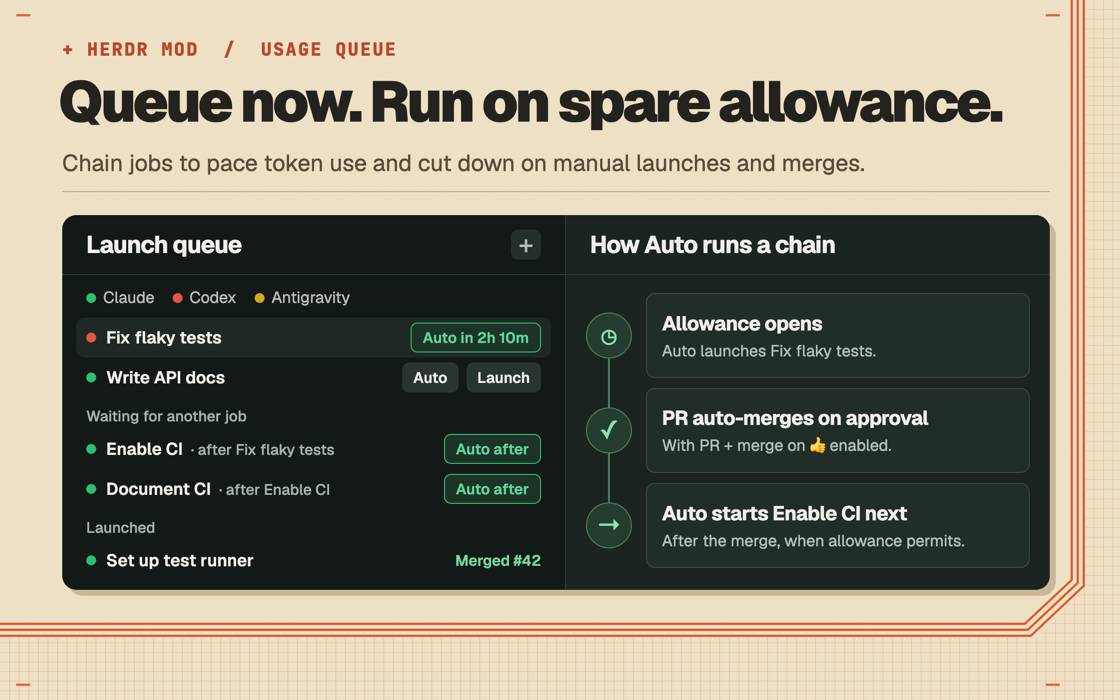
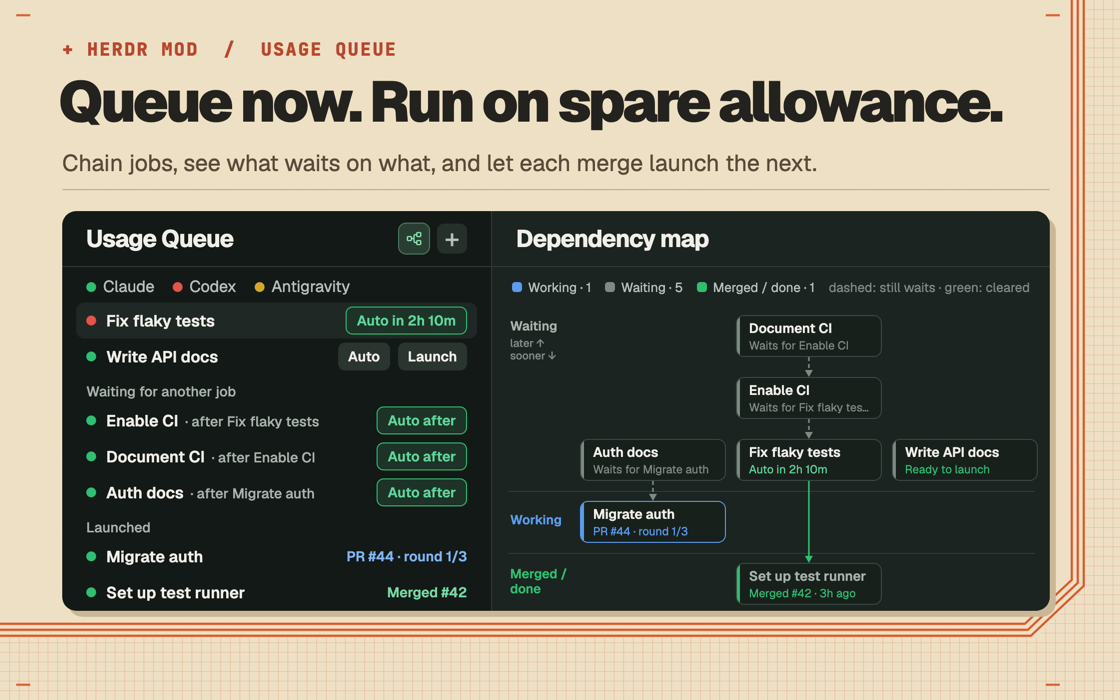
Show the dependency map in the gallery preview
The preview's right panel now draws the dependency map, as the mod's map dialog
does: waiting jobs stacked above the working and merged jobs they wait for, with
dashed arrows for waits still in force and a solid green one that has cleared.
The queue gains a working job with an open PR and a job waiting on it, and the
header shows the map icon beside +. Alt text in README and RECIPE updated.

diff --git a/herdr-app/preview/preview.html b/herdr-app/preview/preview.html
@@ -21,45 +21,58 @@
   h1 { position: absolute; left: 58px; top: 73px; font: 900 57px/1 Geist, sans-serif; letter-spacing: -0.052em;
     color: #24221e; white-space: nowrap; }
   .intro { position: absolute; left: 62px; top: 148px; font-size: 23px; color: #584b39; }
-  .rule { position: absolute; left: 62px; top: 191px; width: 988px; height: 1px; background: #b9aa8d; }
+  .rule { position: absolute; left: 62px; top: 189px; width: 988px; height: 1px; background: #b9aa8d; }
 
-  .card { position: absolute; left: 62px; top: 215px; width: 988px; height: 375px; background: #131916;
-    border-radius: 14px; box-shadow: 6px 6px 0 #c9b796; display: grid; grid-template-columns: 504px 1fr;
+  .card { position: absolute; left: 62px; top: 211px; width: 988px; height: 400px; background: #131916;
+    border-radius: 14px; box-shadow: 6px 6px 0 #c9b796; display: grid; grid-template-columns: 430px 1fr;
     overflow: hidden; }
   .queue { border-right: 1px solid #313b35; }
   .flow { background: #1b2420; }
-  .head { height: 60px; padding: 0 24px; display: flex; align-items: center; justify-content: space-between;
+  .head { height: 56px; padding: 0 24px; display: flex; align-items: center; justify-content: space-between;
     border-bottom: 1px solid #313b35; }
   .title { font-weight: 700; font-size: 24px; letter-spacing: -0.03em; }
   .plus { color: #b9c0bb; font-size: 26px; line-height: 30px; width: 30px; text-align: center;
     border-radius: 7px; background: #26302b; }
-  .lights { display: flex; gap: 18px; padding: 12px 24px 10px; color: #b9c0bb; font-size: 16px; }
+  .lights { display: flex; gap: 18px; padding: 9px 24px 6px; color: #b9c0bb; font-size: 16px; }
   .dot { display: inline-block; width: 10px; height: 10px; border-radius: 10px; margin-right: 7px; }
   .g { background: #2fbf71; } .y { background: #d4a72c; } .r { background: #e5534b; }
   .rows { padding: 0 14px; list-style: none; }
-  .group { padding: 9px 24px 3px; color: #a8b3ac; font-size: 15px; font-weight: 500; }
-  .row { display: flex; align-items: center; gap: 8px; height: 40px; padding: 0 10px; border-radius: 8px;
-    font-size: 17px; font-weight: 600; }
+  .group { padding: 8px 24px 2px; color: #a8b3ac; font-size: 14px; font-weight: 500; }
+  .row { display: flex; align-items: center; gap: 8px; height: 36px; padding: 0 10px; border-radius: 8px;
+    font-size: 16px; font-weight: 600; }
   .row.hl { background: #1f2824; }
   .row .dot { flex: none; margin-right: 2px; }
   .row .name { flex: 1; white-space: nowrap; }
-  .row .after { color: #a8b3ac; font-size: 15px; font-weight: 500; margin-left: 4px; }
-  .btn { flex: none; white-space: nowrap; height: 30px; padding: 0 11px; display: flex; align-items: center;
+  .row .after { color: #a8b3ac; font-size: 14px; font-weight: 500; margin-left: 3px; }
+  .btn { flex: none; white-space: nowrap; height: 28px; padding: 0 10px; display: flex; align-items: center;
     border-radius: 7px; background: #2a3530;
-    font-size: 15px; font-weight: 600; color: #f1efe9; }
+    font-size: 14px; font-weight: 600; color: #f1efe9; }
   .btn.auto { background: #1d3328; color: #5fd69a; border: 1px solid #2fbf71; }
-  .merged { color: #76d8a4; font-size: 15px; font-weight: 600; }
+  .merged { color: #76d8a4; font-size: 14px; font-weight: 600; }
+  .pr { color: #7fb4f5; font-size: 14px; font-weight: 600; }
+  .tools { display: flex; gap: 8px; }
+  .icon { display: grid; place-items: center; width: 30px; height: 30px; border-radius: 7px; background: #26302b;
+    color: #b9c0bb; }
+  .icon.on { background: #2a3d33; color: #8be1b2; box-shadow: 0 0 0 1px #4e7c61; }
 
-  .steps { position: relative; display: grid; gap: 10px; list-style: none; padding: 18px 20px; }
-  .steps::before { content: ""; position: absolute; top: 55px; bottom: 55px; left: 42px;
-    width: 2px; background: #4e7c61; }
-  .step { position: relative; display: grid; grid-template-columns: 46px 1fr; align-items: center; gap: 14px; }
-  .step-icon { display: grid; place-items: center; width: 46px; height: 46px; border: 1px solid #4e7c61;
-    border-radius: 50%; background: #253d31; color: #8be1b2; font: 25px/1 Geist, sans-serif; }
-  .step-copy { min-height: 85px; display: flex; flex-direction: column; justify-content: center; gap: 4px;
-    padding: 12px 15px; border: 1px solid #3a4a41; border-radius: 9px; background: #212d27; }
-  .step-copy h3 { font-size: 20px; letter-spacing: -0.02em; }
-  .step-copy p { font-size: 16px; color: #b5c3b9; }
+  /* The dependency map: drawn like the mod's map dialog. */
+  .map { position: relative; }
+  .legend { display: flex; gap: 14px; align-items: center; padding: 12px 20px 0; font-size: 13px; color: #b9c0bb; white-space: nowrap; }
+  .legend i { display: inline-block; width: 10px; height: 10px; border-radius: 3px; margin-right: 6px; }
+  .legend .hint { color: #7e8a83; }
+  .canvas { position: absolute; left: 0; top: 96px; width: 557px; height: 300px; }
+  .canvas svg { position: absolute; inset: 0; }
+  .band { position: absolute; left: 18px; width: 70px; font-size: 13px; font-weight: 600; line-height: 1.15; }
+  .band small { display: block; margin-top: 3px; font-size: 11px; font-weight: 500; color: #7e8a83; }
+  .sep { position: absolute; left: 16px; right: 14px; height: 1px; background: #313b35; }
+  .node { position: absolute; width: 146px; height: 42px; display: flex; overflow: hidden; border-radius: 8px;
+    border: 1px solid #3a4a41; background: #18201c; }
+  .node.working { border-color: #5b9cf0; }
+  .node > b { flex: none; width: 3px; }
+  .node > span { flex: 1; min-width: 0; padding: 0 9px; display: flex; flex-direction: column; justify-content: center; gap: 1px; }
+  .node .t { font-size: 13.5px; font-weight: 600; white-space: nowrap; overflow: hidden; text-overflow: ellipsis; }
+  .node .s { font-size: 11.5px; white-space: nowrap; overflow: hidden; text-overflow: ellipsis; }
+  .node.done .t { color: #a8b3ac; }
 </style>
 </head>
 <body>
@@ -89,12 +102,12 @@
 
 <div class="kicker">+ HERDR MOD  /  USAGE QUEUE</div>
 <h1>Queue now. Run on spare allowance.</h1>
-<p class="intro">Chain jobs to pace token use and cut down on manual launches and merges.</p>
+<p class="intro">Chain jobs, see what waits on what, and let each merge launch the next.</p>
 <div class="rule"></div>
 
 <div class="card">
   <section class="queue" aria-labelledby="queue">
-    <header class="head"><h2 class="title" id="queue">Usage Queue</h2><span class="plus" aria-label="Add a job">+</span></header>
+    <header class="head"><h2 class="title" id="queue">Usage Queue</h2><span class="tools"><span class="icon on" aria-label="Dependency map"><svg width="16" height="16" viewBox="0 0 24 24" fill="none" stroke="currentColor" stroke-width="2" stroke-linecap="round" stroke-linejoin="round"><rect x="2" y="9" width="6" height="6" rx="1.5"/><rect x="16" y="3" width="6" height="6" rx="1.5"/><rect x="16" y="15" width="6" height="6" rx="1.5"/><path d="M8 12h2a2 2 0 0 0 2-2V8a2 2 0 0 1 2-2h2"/><path d="M10 12a2 2 0 0 1 2 2v2a2 2 0 0 0 2 2h2"/></svg></span><span class="plus" aria-label="Add a job">+</span></span></header>
     <div class="lights">
       <span><i class="dot g"></i>Claude</span><span><i class="dot r"></i>Codex</span><span><i class="dot y"></i>Antigravity</span>
     </div>
@@ -106,28 +119,25 @@
     <ul class="rows" aria-labelledby="waiting">
       <li class="row"><i class="dot g"></i><span class="name">Enable CI <span class="after">· after Fix flaky tests</span></span><span class="btn auto">Auto after</span></li>
       <li class="row"><i class="dot g"></i><span class="name">Document CI <span class="after">· after Enable CI</span></span><span class="btn auto">Auto after</span></li>
+      <li class="row"><i class="dot g"></i><span class="name">Auth docs <span class="after">· after Migrate auth</span></span><span class="btn auto">Auto after</span></li>
     </ul>
     <h3 class="group" id="launched">Launched</h3>
     <ul class="rows" aria-labelledby="launched">
+      <li class="row"><i class="dot g"></i><span class="name">Migrate auth</span><span class="pr">PR #44 · round 1/3</span></li>
       <li class="row"><i class="dot g"></i><span class="name">Set up test runner</span><span class="merged">Merged #42</span></li>
     </ul>
   </section>
-  <section class="flow" aria-labelledby="flow">
-    <header class="head"><h2 class="title" id="flow">How Auto runs a chain</h2></header>
-    <ol class="steps">
-      <li class="step">
-        <span class="step-icon" aria-hidden="true">◷</span>
-        <div class="step-copy"><h3>Allowance opens</h3><p>Auto launches Fix flaky tests.</p></div>
-      </li>
-      <li class="step">
-        <span class="step-icon" aria-hidden="true">✓</span>
-        <div class="step-copy"><h3>PR auto-merges on approval</h3><p>With PR + merge on 👍 enabled.</p></div>
-      </li>
-      <li class="step">
-        <span class="step-icon" aria-hidden="true">→</span>
-        <div class="step-copy"><h3>Auto starts Enable CI next</h3><p>After the merge, when allowance permits.</p></div>
-      </li>
-    </ol>
+  <section class="flow map" aria-labelledby="map">
+    <header class="head"><h2 class="title" id="map">Dependency map</h2></header>
+    <div class="legend">
+      <span><i style="background:#5b9cf0"></i>Working · 1</span><span><i style="background:#7e8a83"></i>Waiting · 5</span><span><i style="background:#2fbf71"></i>Merged / done · 1</span>
+      <span class="hint">dashed: still waits · green: cleared</span>
+    </div>
+    <div class="canvas">
+      <div class="band" style="top:12px;color:#a8b3ac">Waiting<small>later ↑<br>sooner ↓</small></div><div class="sep" style="top:184px"></div><div class="band" style="top:206px;color:#5b9cf0">Working</div><div class="sep" style="top:246px"></div><div class="band" style="top:260px;color:#2fbf71">Merged / done</div>
+      <svg width="557" height="300" viewBox="0 0 557 300" aria-hidden="true"><path d="M161 174V187" stroke="#7e8a83" stroke-width="1.6" fill="none" stroke-dasharray="4 3"/><path d="M161 194L157 187H165Z" fill="#7e8a83"/><path d="M317 174V249" stroke="#2fbf71" stroke-width="1.6" fill="none"/><path d="M317 256L313 249H321Z" fill="#2fbf71"/><path d="M317 112V125" stroke="#7e8a83" stroke-width="1.6" fill="none" stroke-dasharray="4 3"/><path d="M317 132L313 125H321Z" fill="#7e8a83"/><path d="M317 50V63" stroke="#7e8a83" stroke-width="1.6" fill="none" stroke-dasharray="4 3"/><path d="M317 70L313 63H321Z" fill="#7e8a83"/></svg>
+      <div class="node working" style="left:88px;top:194px"><b style="background:#5b9cf0"></b><span><span class="t">Migrate auth</span><span class="s" style="color:#5b9cf0">PR #44 · round 1/3</span></span></div><div class="node waiting" style="left:88px;top:132px"><b style="background:#7e8a83"></b><span><span class="t">Auth docs</span><span class="s" style="color:#7e8a83">Waits for Migrate auth</span></span></div><div class="node done" style="left:244px;top:256px"><b style="background:#2fbf71"></b><span><span class="t">Set up test runner</span><span class="s" style="color:#2fbf71">Merged #42 · 3h ago</span></span></div><div class="node waiting" style="left:244px;top:132px"><b style="background:#7e8a83"></b><span><span class="t">Fix flaky tests</span><span class="s" style="color:#5fd69a">Auto in 2h 10m</span></span></div><div class="node waiting" style="left:244px;top:70px"><b style="background:#7e8a83"></b><span><span class="t">Enable CI</span><span class="s" style="color:#7e8a83">Waits for Fix flaky tests</span></span></div><div class="node waiting" style="left:244px;top:8px"><b style="background:#7e8a83"></b><span><span class="t">Document CI</span><span class="s" style="color:#7e8a83">Waits for Enable CI</span></span></div><div class="node waiting" style="left:400px;top:132px"><b style="background:#7e8a83"></b><span><span class="t">Write API docs</span><span class="s" style="color:#2fbf71">Ready to launch</span></span></div>
+    </div>
   </section>
 </div>
 </body>

diff --git a/README.md b/README.md
@@ -8,7 +8,7 @@ Claude Code · Codex · Antigravity
 [![Herdr mod](https://img.shields.io/badge/Herdr-mod-2fbf71)](https://herdr.dev/gallery/?type=mods)
 [![Runs on Bun](https://img.shields.io/badge/runs%20on-Bun-f9f1e1)](https://bun.sh)
 
-![Usage Queue with manual and automatic launches, jobs waiting on dependencies, and a workflow showing how available allowance starts a job and PR auto-merge on approval unblocks the next one.](herdr-app/preview.png)
+![Usage Queue with manual and automatic launches and jobs waiting on other jobs, beside its dependency map: waiting jobs stacked above the working and merged jobs they wait for, with dashed arrows for waits still in force and a solid green one for a wait that has cleared.](herdr-app/preview.png)
 
 Subscriptions reset their allowance on a clock, and whatever is left when a window resets is
 gone. Usage Queue holds jobs you'd like done and launches them on demand or automatically when

diff --git a/herdr-app/RECIPE.md b/herdr-app/RECIPE.md
@@ -6,7 +6,7 @@ spare. Choose a size, agent, model and effort, or ask a big model to estimate. C
 in a new git worktree, branched from the repo's latest commit on its remote, in a background
 space. Allowance comes from [Usage Monitor](https://github.com/EMRahman/herdr-usage-monitor).
 
-![Usage Queue with manual and automatic launches, jobs waiting on dependencies, and a workflow showing how available allowance starts a job and PR auto-merge on approval unblocks the next one.](preview.png)
+![Usage Queue with manual and automatic launches and jobs waiting on other jobs, beside its dependency map: waiting jobs stacked above the working and merged jobs they wait for, with dashed arrows for waits still in force and a solid green one for a wait that has cleared.](preview.png)
 
 ## What you see
 
